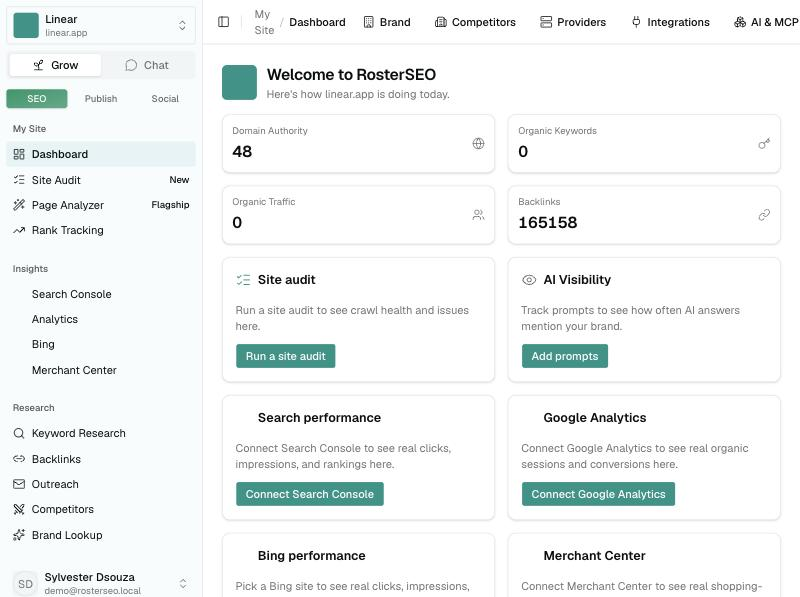
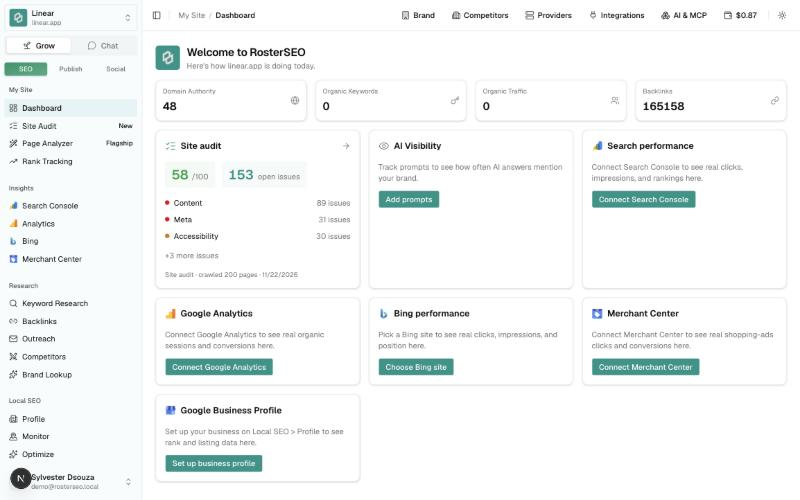
Turn the product tour into an auto-playing real-screenshot showcase
Replaces the manual-click tab switcher with a 7-slide, auto-advancing
carousel (dashboard -> site audit -> keyword research -> rank tracking
-> competitors -> social connections -> billing) with an Instagram-
stories-style segmented progress bar, a crossfade between slides, and
a subtle Ken Burns zoom on the active screenshot - gives the "short
video" feel the brief asked for without needing an actual video file,
hosting, or any external render credits. Pauses on hover; respects
prefers-reduced-motion.

Also swaps in two richer real screenshots this session (dashboard now
shows a completed Site Audit card instead of an empty "Run a site
audit" prompt; site-audit.jpg and rank-tracking.jpg are two brand new
real captures with live data) and drops the lower-value Billing-only
third slide in favor of Competitors and Rank Tracking, which show more
of the product.

A real exported video via Rendley was attempted too (project built
timeline-only - screenshots, captions, transitions, Ken Burns zoom -
with zero render credits spent, since edit_project is free) but the
connected Rendley account doesn't have enough credits to preview or
export it. Noted for later rather than fabricated.

diff --git a/src/components/product-tour.tsx b/src/components/product-tour.tsx
@@ -1,20 +1,54 @@
 "use client";
 
-import { useState } from "react";
+import { useEffect, useRef, useState } from "react";
 import Image from "next/image";
 
 // Real screenshots (public/screenshots/*.jpg) captured directly from a
 // live RosterSEO instance running against real DataForSEO/AI-provider
 // credentials — not mockups, not staged data. See each caption for what's
-// actually real in the shot.
-const TABS = [
+// actually real in the shot. Order tells a real product-usage story: see
+// your project, audit it, research keywords, track rank, size up a
+// competitor, connect a platform, then (hosted-mode only) manage billing.
+const SLIDES = [
+  {
+    id: "dashboard",
+    label: "Dashboard",
+    path: "app.rosterseo.com/",
+    image: "/screenshots/dashboard.jpg",
+    alt: "RosterSEO dashboard showing real Domain Authority, organic traffic, backlink data, and a completed Site Audit score for a connected project",
+    caption: "Your project, at a glance — real Domain Authority, backlinks, and a live Site Audit score.",
+  },
+  {
+    id: "site-audit",
+    label: "Site Audit",
+    path: "app.rosterseo.com/site-audit",
+    image: "/screenshots/site-audit.jpg",
+    alt: "Site Audit results showing 200 real pages crawled, a health score, and a prioritized issues table",
+    caption: "Crawls real pages and finds real technical issues — tracked over time, not a one-off scan.",
+  },
   {
     id: "keyword-research",
     label: "Keyword Research",
     path: "app.rosterseo.com/keyword-research",
     image: "/screenshots/keyword-research.jpg",
     alt: "Keyword Research results for 'project management software' showing real search volume, CPC, difficulty, a 12-month trend chart, and live SERP data",
-    caption: "Real DataForSEO volume, CPC, and difficulty — down to a live 12-month trend chart and SERP preview, not a canned demo.",
+    caption: "Real DataForSEO volume, CPC, and difficulty — down to a live 12-month trend chart and SERP preview.",
+  },
+  {
+    id: "rank-tracking",
+    label: "Rank Tracking",
+    path: "app.rosterseo.com/rank-tracking",
+    image: "/screenshots/rank-tracking.jpg",
+    alt: "Rank Tracking table showing real search volume, keyword difficulty, CPC, and SERP features for tracked keywords",
+    caption: "Real rankings, search volume, and SERP features (AI Overview, PAA) for every keyword you track.",
+  },
+  {
+    id: "competitors",
+    label: "Competitors",
+    path: "app.rosterseo.com/competitors",
+    image: "/screenshots/competitors.jpg",
+    alt: "Competitor research showing real estimated traffic, organic keywords, referring domains, and domain rating for a tracked competitor domain",
+    caption: "Track any competitor domain — real traffic, keywords, and backlink data, refreshed on demand.",
   },
   {
     id: "social",
@@ -22,7 +56,7 @@ const TABS = [
     path: "app.rosterseo.com/social/connections",
     image: "/screenshots/social-connections.jpg",
     alt: "Social Connections page showing Bluesky, Mastodon, LinkedIn, Pinterest, and Facebook Page connection cards",
-    caption: "Connect Bluesky, Mastodon, LinkedIn, Pinterest, Facebook, Instagram, Threads, and X — every connection is verified live before it's saved.",
+    caption: "Connect Bluesky, Mastodon, LinkedIn, Pinterest, Facebook, Instagram, Threads, and X — verified live before it's saved.",
   },
   {
     id: "billing",
@@ -30,13 +64,32 @@ const TABS = [
     path: "app.rosterseo.com/settings/billing",
     image: "/screenshots/billing.jpg",
     alt: "Billing settings page showing the current plan, Starter/Pro/Agency upgrade options, and this month's usage per feature",
-    caption: "Self-hosted installs never see this page at all — it only exists in hosted mode, gated by one clean isSelfHosted() check.",
+    caption: "Self-hosted installs never see this page at all — it only exists in hosted mode, gated by one clean check.",
   },
 ];
 
+const SLIDE_MS = 4000;
+
 export function ProductTour() {
-  const [activeId, setActiveId] = useState(TABS[0]!.id);
-  const active = TABS.find((t) => t.id === activeId)!;
+  const [index, setIndex] = useState(0);
+  const [paused, setPaused] = useState(false);
+  const timerRef = useRef<ReturnType<typeof setInterval> | null>(null);
+
+  useEffect(() => {
+    if (paused) return;
+    timerRef.current = setInterval(() => {
+      setIndex((i) => (i + 1) % SLIDES.length);
+    }, SLIDE_MS);
+    return () => {
+      if (timerRef.current) clearInterval(timerRef.current);
+    };
+    // Restart the interval timer whenever the active slide changes (manual
+    // click or auto-advance) so a manual click always gets a full SLIDE_MS
+    // before advancing again, instead of cutting the next auto-advance short.
+    // eslint-disable-next-line react-hooks/exhaustive-deps
+  }, [index, paused]);
+
+  const active = SLIDES[index]!;
 
   return (
     <div className="border-b border-line bg-white">
@@ -44,36 +97,63 @@ export function ProductTour() {
         <div className="mx-auto mb-10 flex max-w-[580px] flex-col items-center gap-3.5 text-center">
           <h2 className="text-[28px] font-bold sm:text-[38px]">See the real product</h2>
           <p className="text-[16.5px] text-ink-soft">
-            These are screenshots of an actual RosterSEO instance, not illustrations — click a tab to see each one.
+            These are screenshots of an actual RosterSEO instance, not illustrations — it plays through them on its own.
           </p>
         </div>
 
-        <div className="mb-6 flex flex-wrap items-center justify-center gap-2">
-          {TABS.map((tab) => (
-            <button
-              key={tab.id}
-              type="button"
-              onClick={() => setActiveId(tab.id)}
-              className={`rounded-full px-4 py-2 text-sm font-semibold transition-colors ${
-                tab.id === activeId ? "bg-ink text-white" : "border border-line bg-white text-ink-soft hover:bg-muted"
-              }`}
-            >
-              {tab.label}
-            </button>
-          ))}
-        </div>
-
-        <div className="mx-auto w-full max-w-[960px] overflow-hidden rounded-[18px] border border-line bg-white shadow-[0_24px_60px_-20px_rgba(0,0,0,0.18)]">
+        <div
+          className="mx-auto w-full max-w-[960px] overflow-hidden rounded-[18px] border border-line bg-white shadow-[0_24px_60px_-20px_rgba(0,0,0,0.18)]"
+          onMouseEnter={() => setPaused(true)}
+          onMouseLeave={() => setPaused(false)}
+        >
           <div className="flex h-[38px] items-center gap-1.5 border-b border-line bg-muted px-3.5">
             <div className="size-2.5 rounded-full bg-line" />
             <div className="size-2.5 rounded-full bg-line" />
             <div className="size-2.5 rounded-full bg-line" />
             <div className="ml-2.5 font-mono text-[11.5px] text-ink-faint">{active.path}</div>
           </div>
-          <Image key={active.id} src={active.image} alt={active.alt} width={800} height={600} className="h-auto w-full" />
+
+          <div className="relative aspect-[800/560] w-full overflow-hidden bg-muted">
+            {SLIDES.map((slide, i) => (
+              <Image
+                key={slide.id}
+                src={slide.image}
+                alt={slide.alt}
+                fill
+                className={`tour-slide object-cover object-top transition-opacity duration-700 ease-in-out ${
+                  i === index ? "opacity-100" : "opacity-0"
+                }`}
+                style={i === index && !paused ? { animationDuration: `${SLIDE_MS}ms` } : undefined}
+                priority={i === 0}
+              />
+            ))}
+          </div>
+
+          <div className="flex gap-1.5 border-t border-line bg-muted/60 px-3.5 py-3">
+            {SLIDES.map((slide, i) => (
+              <button
+                key={slide.id}
+                type="button"
+                aria-label={`Show ${slide.label}`}
+                onClick={() => setIndex(i)}
+                className="group h-1.5 flex-1 overflow-hidden rounded-full bg-line"
+              >
+                <span
+                  key={i === index ? `active-${index}` : slide.id}
+                  className={`block h-full rounded-full bg-primary ${
+                    i < index ? "w-full" : i === index ? "tour-progress w-full" : "w-0"
+                  } ${i === index && paused ? "[animation-play-state:paused]" : ""}`}
+                  style={i === index ? { animationDuration: `${SLIDE_MS}ms` } : undefined}
+                />
+              </button>
+            ))}
+          </div>
         </div>
 
-        <p className="mx-auto mt-5 max-w-[640px] text-center text-sm leading-relaxed text-ink-soft">{active.caption}</p>
+        <div className="mx-auto mt-5 max-w-[640px] text-center">
+          <span className="text-sm font-bold text-primary">{active.label}</span>
+          <p className="mt-1.5 text-sm leading-relaxed text-ink-soft">{active.caption}</p>
+        </div>
       </div>
     </div>
   );

diff --git a/src/app/globals.css b/src/app/globals.css
@@ -71,6 +71,32 @@ h1, h2, h3 {
   color: var(--primary-dark);
 }
 
+/* ProductTour's auto-playing real-screenshot showcase (src/components/
+   product-tour.tsx) - a subtle Ken Burns zoom on the active screenshot and
+   a fill animation on its progress segment, so the section reads as a
+   short, moving "video" without actually embedding a video file. */
+@keyframes tour-zoom {
+  from { transform: scale(1); }
+  to { transform: scale(1.06); }
+}
+.tour-slide {
+  animation-name: tour-zoom;
+  animation-timing-function: ease-out;
+  animation-fill-mode: forwards;
+}
+@keyframes tour-progress-fill {
+  from { width: 0%; }
+  to { width: 100%; }
+}
+.tour-progress {
+  animation-name: tour-progress-fill;
+  animation-timing-function: linear;
+  animation-fill-mode: forwards;
+}
+@media (prefers-reduced-motion: reduce) {
+  .tour-slide, .tour-progress { animation: none; }
+}
+
 /* Minimal markdown styling for GitHub release notes / MDX blog content —
    hand-rolled rather than pulling in @tailwindcss/typography for this much
    surface area. */
